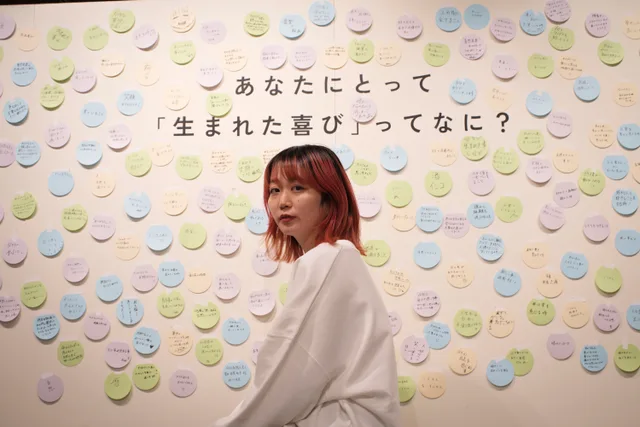
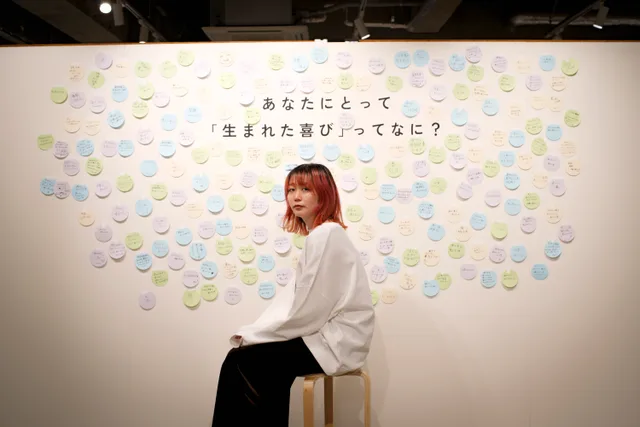
Apply artist copy, home history, exhibition image and mobile poetry updates

diff --git a/app/about/page.jsx b/app/about/page.jsx
@@ -1,5 +1,6 @@
 import Reveal from "@/components/Reveal";
 import HistoryTimeline from "@/components/HistoryTimeline";
+import { HISTORY } from "@/lib/history";
 import StatementInk from "@/components/StatementInk";
 import Spiral from "@/components/Spiral";
 import FadeImg from "@/components/FadeImg";
@@ -22,76 +23,49 @@ export const metadata = {
   },
 };
 
-// 活動歴（2026-09 クライアント提供の確定リスト）。
-// exhibitions は原稿の「●EXHIBITION」以下の項目。
-// links は項目の出典・関連ページ（2026-09-15 に公式サイト・一次情報を中心に確認できた分だけ付与。見つからない項目は空のまま）。
-const L = (label, href) => ({ label, href });
-const HISTORY = [
-  { year: "2026", items: [
-    { text: "南種子島ふるさと納税返礼品・ひいらぎ 銀座本店 抹茶マカロン パッケージデザイン（Shinfula）" },
-    { text: "曙酒造 domaine dawn ワインパッケージデザイン" },
-  ] },
-  { year: "2025", items: [
-    { text: "展示「渦に沈む」" },
-    { text: "「アートゴールデン街」（GOOD DESIGN賞受賞）（NoxGallery × Superchief × Brillia）Yahoo!ニュース掲載", links: [
-      L("GOOD DESIGN", "https://www.g-mark.org/gallery/winners/30972"),
-      L("東京建物", "https://tatemono.com/news/20241127.html"),
-    ] },
-    { text: "SEKAI NO OWARI「図鑑」リリース記念ショートムービー制作" },
-  ], exhibitions: [
-    { text: "concent shibuya（渋谷）個展「生まれた喜び」", links: [L("YouTube", "https://www.youtube.com/watch?v=gL5-xlRYAus")] },
-  ] },
-  { year: "2024", items: [], exhibitions: [{ text: "Gallery GOBANGURA（京都）個展「渦展 Vol.3」" }] },
-  { year: "2023", items: [
-    { text: "PSG（パリ・サンジェルマンFC）コラボ", links: [L("PSG Japan", "https://x.com/psgjapan/status/1726534038146715772")] },
-    { text: "NIKE エアフォース1 広告出演" },
-    { text: "第8回インフルエンサー・アワード・ジャパン2023 ENTERTAINMENT部門 最優秀賞", links: [L("IAJ 2023", "https://lp.spirit-japan.com/iaj/2023/")] },
-  ] },
-  { year: "2022", items: [
-    { text: "劇団アレン舞台「いい人間の教科書」衣装提供（カンゲキ大賞受賞）" },
-  ] },
-  { year: "2021", items: [
-    { text: "白石聖 写真展「COLOR」衣装提供", links: [L("TOKION", "https://tokion.jp/2020/11/24/sei-shiraishi-color/")] },
-  ] },
-  { year: "2020", items: [
-    { text: "劇団アレン舞台「シカク」衣装提供", links: [L("公式", "http://allen-co.com/allen-shikaku/")] },
-  ] },
-  { year: "2019", items: [
-    { text: "劇団アレン舞台「積チノカベ」衣装提供", links: [L("公式", "http://allen-co.com/the-wall/")] },
-    { text: "EYESCREAM 写真連載「Paris et Tourbillon」（全6回）", links: [L("EYESCREAM", "https://eyescream.jp/culture/49622/")] },
-  ], exhibitions: [
-    { text: "Case Gallery（代々木八幡）「渦写展」" },
-  ] },
-  { year: "2018", items: [
-    { text: "Asia Design Exhibition Consortium", links: [L("公式", "https://asiadesignart.wixsite.com/ada2018")] },
-    { text: "カンボジア王立プノンペン大学 展示", links: [L("公式", "https://asiadesignart.wixsite.com/ada2018")] },
-    { text: "映画「猫は抱くもの」衣装ペインティング", links: [L("映画.com", "https://eiga.com/movie/88358/")] },
-  ], exhibitions: [
-    { text: "Case Gallery（代々木八幡）「渦展」" },
-  ] },
-  { year: "2017", items: [
-    { text: "スターバックス 二子玉川店 作品展示" },
-    { text: "郷ひろみ 全国ツアー「My Dear」衣装ペインティング", links: [L("Sony Music", "https://www.sonymusic.co.jp/artist/HiromiGo/discography/SRBL-1774")] },
-    { text: "Girls Award 2017 AAA（SHINJIRO ATAE）衣装" },
-  ] },
-  { year: "2016", items: [
-    { text: "Superfly「Into The Circle」全国ツアー・紅白歌合戦・TV衣装ペインティング", links: [L("Superfly", "https://www.superfly-web.com/discography/?id=80")] },
-  ] },
-  { year: "2015", items: [
-    { text: "Superfly「WHITE」衣装ペインティング", links: [L("Warner Music", "https://wmg.jp/superfly/discography/15121/")] },
-  ] },
-];
-
-// プロフィール／ステートメント（2026-09 クライアント提供の最終原稿）。段落ごとに配列化。
+// 2026-10-19 LINE受領原稿。段落・改行を保持。
 const STATEMENT = [
-  ["苦痛を昇華するために始まった渦に、その時々の人生から生まれた詩と言葉を重ねてきた。"],
-  ["渦は、同じ場所を巡っているように見えながら、少しずつ位置を変え、同じ地点には二度と戻らない。", "私の人生もまた、同じ悩みに何度も戻る。けれど、そこに向き合う自分は毎回違う。"],
-  ["私が変われば、渦も変わる。", "生きる時代が変われば、問いも変わる。", "だから、同じ渦を描いても同じ渦にはならない。"],
-  ["私は、この行為を続けた先に、", "「渦を80年描き続けた、100歳のおばあちゃん」", "になることを目指している。"],
-  ["毎年、「渦とは何か」「なぜ私は渦を描き続けるのか」を問い直し、その年の探究を作品として残す。", "同時に、その年の渦を自らの顔と身体に描き、言葉と写真とともに、一年ずつ記録していく。"],
-  ["一人の人間が、生涯ひとつの形を反復し続けたとき、何が変わり、何が最後まで残るのか。"],
-  ["80年分の渦を並べた時、そこに私がどう生き、どう変わり、それでも何を手放さなかったのかが残っていてほしい。"],
-  ["私は、自分の人生そのものを使って、その変化を記録し続ける。"],
+  [
+    "渦は、同じ場所を巡っているように見えながら、少しずつ位置を変え、同じ地点には二度と戻らない。"
+  ],
+  [
+    "私の人生もまた、同じ悩みに何度も出会いながら、その度に状況は変わり、そこに向き合う自分も同じではない。"
+  ],
+  [
+    "私が変われば、渦も変わる。",
+    "生きる時代が変われば、問いも変わる。",
+    "だから、同じ渦を描いても、同じ渦にはならない。"
+  ],
+  [
+    "私は、そんな人生の悩みや願望、そして自分の人生を生きる決意を、渦に重ねてきた。"
+  ],
+  [
+    "私が渦を通して問い続けたいのは、"
+  ],
+  [
+    "「人は、自らの決意によって、どれだけ自分の人生に矜持を持って生きられるのか」ということ。"
+  ],
+  [
+    "そして、私が芸術の完成形として思い描くのは、「渦を80年描き続けた、100歳のおばあちゃん」になった自分自身である。"
+  ],
+  [
+    "毎年「渦とは何か」「なぜ私は渦を描き続けるのか」を問い続け、その年の探究を作品として残す。"
+  ],
+  [
+    "同時に、その年の渦を自らの顔と身体に描き、言葉と写真とともに、一年ずつ記録していく。"
+  ],
+  [
+    "一人の人間が、生涯ひとつの形を描き続けたとき、何が変わり、何が最後まで残るのか。"
+  ],
+  [
+    "80年分の渦を並べたとき、そこに私が何を選び、どう生き、どう変わり、それでも何を手放さなかったのかが残っていてほしい。"
+  ],
+  [
+    "渦を描き続けること自体が、自分の決意を生きる実践でもある。"
+  ],
+  [
+    "一枚一枚の作品だけでなく、渦を描き続けた人生そのものを、ひとつの作品として完成させていきたい。"
+  ]
 ];
 
 export default function AboutPage() {
@@ -133,7 +107,7 @@ export default function AboutPage() {
             <p className="mt-8 text-sm leading-loose">
               1994年東京生まれ。
               <br />
-              2015年から、「渦」を描き続けている。
+              2015年から「渦」だけを描き続けている。
             </p>
           </Reveal>
 
@@ -143,7 +117,7 @@ export default function AboutPage() {
                 <Spiral className="spin-slow h-full w-full" />
               </span>
               <h2 className="font-display text-sm tracking-[0.2em] text-[var(--color-muted)]">
-                Statement
+                STATEMENT
               </h2>
             </div>
             <StatementInk
@@ -158,8 +132,8 @@ export default function AboutPage() {
       {/* History：年のタイムラインで選んだ年だけを表示（項目が増えても縦に伸びない） */}
       <Reveal className="mt-24 md:mt-32">
         <div className="flex items-baseline justify-between border-b border-[var(--color-line)] pb-4">
-          <h2 className="font-display text-sm tracking-[0.2em] text-[var(--color-muted)]">
-            History
+          <h2 id="history" className="scroll-mt-28 font-display text-sm tracking-[0.2em] text-[var(--color-muted)]">
+            HISTORY
           </h2>
           <p className="text-[0.625rem] tracking-[0.2em] text-[var(--color-muted)]">
             {HISTORY[HISTORY.length - 1].year} — {HISTORY[0].year}

diff --git a/lib/history.js b/lib/history.js
@@ -1,0 +1,60 @@
+// 活動歴（2026-09 クライアント提供の確定リスト）。
+// exhibitions は原稿の「●EXHIBITION」以下の項目。
+// links は項目の出典・関連ページ（2026-09-15 に公式サイト・一次情報を中心に確認できた分だけ付与。見つからない項目は空のまま）。
+const L = (label, href) => ({ label, href });
+export const HISTORY = [
+  { year: "2026", items: [
+    { text: "南種子島ふるさと納税返礼品・ひいらぎ 銀座本店 抹茶マカロン パッケージデザイン（Shinfula）" },
+    { text: "曙酒造 domaine dawn ワインパッケージデザイン" },
+  ] },
+  { year: "2025", items: [
+    { text: "展示「渦に沈む」" },
+    { text: "「アートゴールデン街」（GOOD DESIGN賞受賞）（NoxGallery × Superchief × Brillia）Yahoo!ニュース掲載", links: [
+      L("GOOD DESIGN", "https://www.g-mark.org/gallery/winners/30972"),
+      L("東京建物", "https://tatemono.com/news/20241127.html"),
+    ] },
+    { text: "SEKAI NO OWARI「図鑑」リリース記念ショートムービー制作" },
+  ], exhibitions: [
+    { text: "concent shibuya（渋谷）個展「生まれた喜び」", links: [L("YouTube", "https://www.youtube.com/watch?v=gL5-xlRYAus")] },
+  ] },
+  { year: "2024", items: [], exhibitions: [{ text: "Gallery GOBANGURA（京都）個展「渦展 Vol.3」" }] },
+  { year: "2023", items: [
+    { text: "PSG（パリ・サンジェルマンFC）コラボ", links: [L("PSG Japan", "https://x.com/psgjapan/status/1726534038146715772")] },
+    { text: "NIKE エアフォース1 広告出演" },
+    { text: "第8回インフルエンサー・アワード・ジャパン2023 ENTERTAINMENT部門 最優秀賞", links: [L("IAJ 2023", "https://lp.spirit-japan.com/iaj/2023/")] },
+  ] },
+  { year: "2022", items: [
+    { text: "劇団アレン舞台「いい人間の教科書」衣装提供（カンゲキ大賞受賞）" },
+  ] },
+  { year: "2021", items: [
+    { text: "白石聖 写真展「COLOR」衣装提供", links: [L("TOKION", "https://tokion.jp/2020/11/24/sei-shiraishi-color/")] },
+  ] },
+  { year: "2020", items: [
+    { text: "劇団アレン舞台「シカク」衣装提供", links: [L("公式", "http://allen-co.com/allen-shikaku/")] },
+  ] },
+  { year: "2019", items: [
+    { text: "劇団アレン舞台「積チノカベ」衣装提供", links: [L("公式", "http://allen-co.com/the-wall/")] },
+    { text: "EYESCREAM 写真連載「Paris et Tourbillon」（全6回）", links: [L("EYESCREAM", "https://eyescream.jp/culture/49622/")] },
+  ], exhibitions: [
+    { text: "Case Gallery（代々木八幡）「渦写展」" },
+  ] },
+  { year: "2018", items: [
+    { text: "Asia Design Exhibition Consortium", links: [L("公式", "https://asiadesignart.wixsite.com/ada2018")] },
+    { text: "カンボジア王立プノンペン大学 展示", links: [L("公式", "https://asiadesignart.wixsite.com/ada2018")] },
+    { text: "映画「猫は抱くもの」衣装ペインティング", links: [L("映画.com", "https://eiga.com/movie/88358/")] },
+  ], exhibitions: [
+    { text: "Case Gallery（代々木八幡）「渦展」" },
+  ] },
+  { year: "2017", items: [
+    { text: "スターバックス 二子玉川店 作品展示" },
+    { text: "郷ひろみ 全国ツアー「My Dear」衣装ペインティング", links: [L("Sony Music", "https://www.sonymusic.co.jp/artist/HiromiGo/discography/SRBL-1774")] },
+    { text: "Girls Award 2017 AAA（SHINJIRO ATAE）衣装" },
+  ] },
+  { year: "2016", items: [
+    { text: "Superfly「Into The Circle」全国ツアー・紅白歌合戦・TV衣装ペインティング", links: [L("Superfly", "https://www.superfly-web.com/discography/?id=80")] },
+  ] },
+  { year: "2015", items: [
+    { text: "Superfly「WHITE」衣装ペインティング", links: [L("Warner Music", "https://wmg.jp/superfly/discography/15121/")] },
+  ] },
+];
+

diff --git a/app/page.jsx b/app/page.jsx
@@ -1,5 +1,7 @@
 import Link from "next/link";
 import Hero from "@/components/Hero";
+import HistoryTimeline from "@/components/HistoryTimeline";
+import { HISTORY } from "@/lib/history";
 import LifeLine from "@/components/LifeLine";
 import Reveal from "@/components/Reveal";
 import FadeImg from "@/components/FadeImg";
@@ -54,14 +56,14 @@ export default function Home() {
             </Reveal>
             <Reveal delay={0.1}>
               <h2 className="font-display text-2xl tracking-[0.12em] sm:text-4xl sm:tracking-[0.15em]">About</h2>
-              <p className="mt-8 text-sm leading-loose">
-                神谷佳美（YOSHIMI KAMITANI）。1994年東京生まれ。
-                2015年から、「渦」を描き続けている。
-              </p>
-              <p className="mt-4 text-sm leading-loose text-[var(--color-muted)]">
-                目指すのは、「渦を80年描き続けた、100歳のおばあちゃん」になること。
-                毎年「渦とは何か」を問い直し、その年の探究を作品として残している。
-              </p>
+              <div className="mt-8 space-y-6 text-sm leading-loose">
+                <p>神谷佳美（YOSHIMI KAMITANI）</p>
+                <p>1994年東京生まれ。<br />2015年から「渦」だけを描き続けている。</p>
+                <p>渦を通して、人間の悩みや願望、そして自分の人生を生きる決意を描く。</p>
+                <p>毎年「渦とは何か」を問い直し、その年の探究を作品として残している。</p>
+                <p>芸術の完成形として思い描くのは、「渦を80年描き続けた、100歳のおばあちゃん」になった自分自身。</p>
+                <p>一枚一枚の作品だけでなく、渦を描き続ける人生そのものを、ひとつの作品として構想している。</p>
+              </div>
               <Link
                 href="/about"
                 className="nav-link mt-8 inline-block text-xs tracking-wider-jp"
@@ -70,6 +72,17 @@ export default function Home() {
               </Link>
             </Reveal>
           </div>
+        </section>
+
+        {/* History */}
+        <section className="border-t border-[var(--color-line)] py-24 md:py-32" aria-labelledby="home-history">
+          <Reveal>
+            <div className="flex items-baseline justify-between gap-4 border-b border-[var(--color-line)] pb-4">
+              <h2 id="home-history" className="font-display text-2xl tracking-[0.12em] sm:text-4xl sm:tracking-[0.15em]">HISTORY</h2>
+              <Link href="/about#history" className="nav-link whitespace-nowrap text-xs tracking-wider-jp text-[var(--color-muted)] hover:text-[var(--color-ink)]">View all →</Link>
+            </div>
+            <HistoryTimeline history={HISTORY} />
+          </Reveal>
         </section>
 
         {/* Contact */}

diff --git a/components/PoetryInterlude.module.css b/components/PoetryInterlude.module.css
@@ -73,9 +73,13 @@
   .section { padding: 40px 0 32px; --panel-width: calc(100vw - 64px); }
   .galleryLabel { margin-bottom: 32px; }
   .viewport { padding-bottom: 36px; }
-  .slides { gap: 28px; }
+  .slides { gap: 0; }
+  .figure:not(:last-child) { margin-inline-end: -40px; }
   .figure { perspective: 850px; }
-  .floatingBody { padding: 36px 20px 30px; }
+  .floatingBody {
+    padding: 36px 20px 30px;
+    transform: translateZ(calc(var(--depth) * -40px)) rotateY(calc(var(--distance) * -10deg));
+  }
   .poem { font-size: 14px; line-height: 2.05; letter-spacing: .025em; }
   .mark { height: 40px; font-size: 64px; margin-bottom: 16px; }
   .closingMark { font-size: 40px; margin-top: 14px; height: 22px; }

diff --git a/CONTENT_UPDATES.md b/CONTENT_UPDATES.md
@@ -26,3 +26,11 @@
 - 横スライドショーはスクロール連動の5枚。PCでも画像をクリックして拡大できる。
 - AboutのHistory下に、来歴_20261013.pdfと照合した2015〜2026年の全文一覧と原本PDFへのリンクを追加。
 - 「渦は、感情であり、呼吸であり、記録であり、祈り。」を画面・メタ情報から削除。渦の描画部分は文章を重ねず、不透明で表示。
+
+## 2026-10-19 LINE依頼反映
+
+- 展示「生まれた喜び」（2025_4）の代表画像・ギャラリー先頭画像を、共有Driveの `2_31.jpg`（2026-10-17更新）に差し替え。一覧用サムネイルも更新。
+- TOPのAbout直下にHISTORY見出しと年別タイムラインを追加。Aboutと同じ活動歴データを `lib/history.js` から参照。
+- スマホの詩ギャラリーは、隣の詩が薄く見えるように幅・間隔・奥行きを調整。
+- TOPの紹介文とAboutのプロフィール・STATEMENTを、受領した原稿の文言・段落・改行に差し替え。
+- 来歴画像差し替えは素材待ち。iCloud Driveの `_work/来歴写真差し替え` は確認時点で空（依頼文の「来歴画像差し替え」とは名称が異なる）。既存画像を保持。
